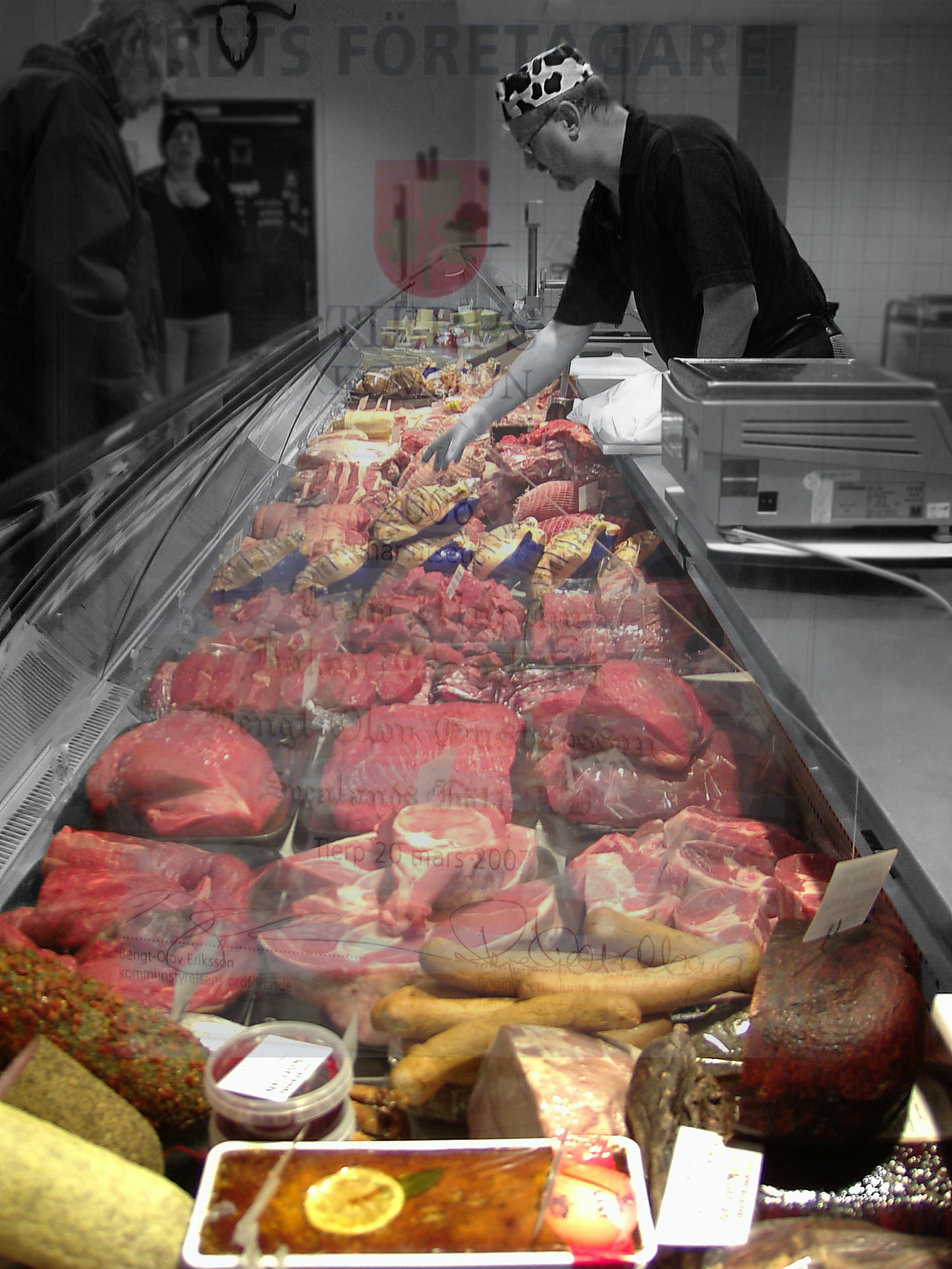
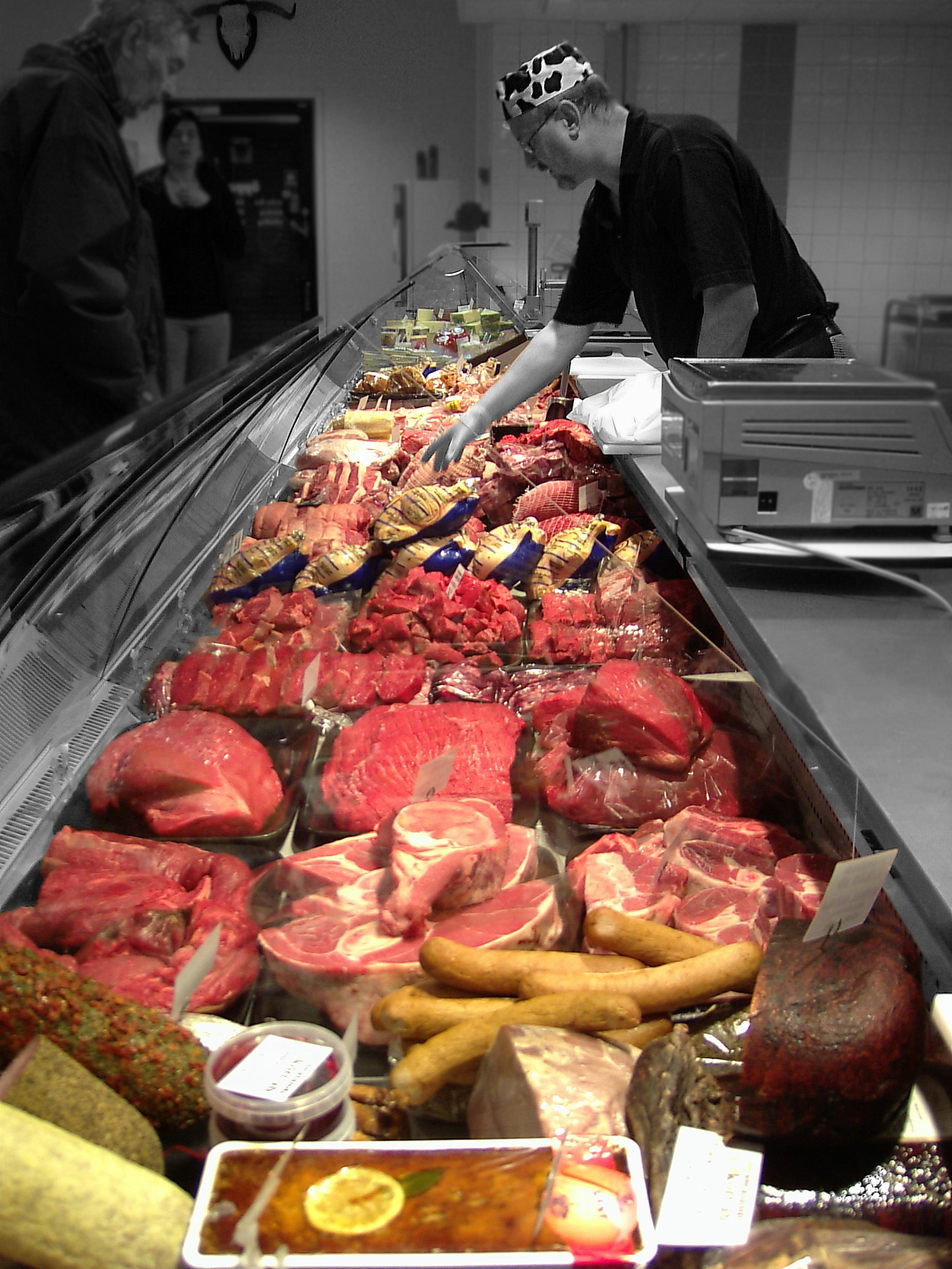
Changed Heroimg 2.

diff --git a/css/Style.css b/css/Style.css
@@ -85,6 +85,7 @@ a:visited {
 a:focus,
 a:hover {
     color: var(--text-golden);
+    transition: color ease-in-out 350ms;
 }
 
 .wrapper {
@@ -115,7 +116,7 @@ a:hover {
     border: 2px solid gray;
 }
 
-#contact {
+#contact{
     margin: 0;
 }
 
@@ -160,6 +161,7 @@ a:hover {
 
 #myBtn:hover {
     color: var(--text-golden);
+    transition: color ease-in-out 350ms;
 }
 
 /* Heroe images and text decoration */
@@ -252,32 +254,28 @@ footer {
     margin-bottom: 0;
     padding-bottom: 0.3em;
 }
-
 /* Controls the weather app in the contact card
    will be removed after the assignment is turned in.*/
-#weather {
+#weather{
     text-align: center;
     font-size: 0.8rem;
     margin-bottom: 0;
     padding: 0;
 }
-
-#temp {
+#temp{
     margin-bottom: 0;
     padding: 0;
 }
-
-#location {
-    margin-bottom: 0;
-    padding: 0;
+#location{
+ margin-bottom: 0;
+ padding: 0;
 }
 
 @media screen and (min-width: 768px) {
 
-    header h1 {
+    header h1{
         text-align: left;
     }
-
     nav li {
         display: inline-block;
     }
@@ -288,5 +286,37 @@ footer {
         right: 1.2em;
     }
 
+    /* .heroOneText {
+        background: rgb(64, 85, 89);
+        background: rgba(64, 85, 89, 0.4);
+        position: relative;
+        top: 50%;
+        text-align: left;
+        margin-left: 0.8em;
+        width: 30%;
+        max-width: 80ch;
+        z-index: 10;
+    }
 
+    .heroImgOne{
+        object-fit: cover;
+        min-height: 100%;
+        min-width: 100%;
+        position: relative;
+        top: -15em;
+    } */
+    /* .heroTwoText {
+        background: rgb(64, 85, 89);
+        background: rgba(64, 85, 89, 0.4);
+        position: relative;
+        top: 50%;
+        text-align: left;
+        margin-right: 1em;
+        max-width: 50ch;
+        z-index: 10;
+    }
+    .heroImgTwo{
+        position:relative;
+        top: -15em;
+    } */
 }
